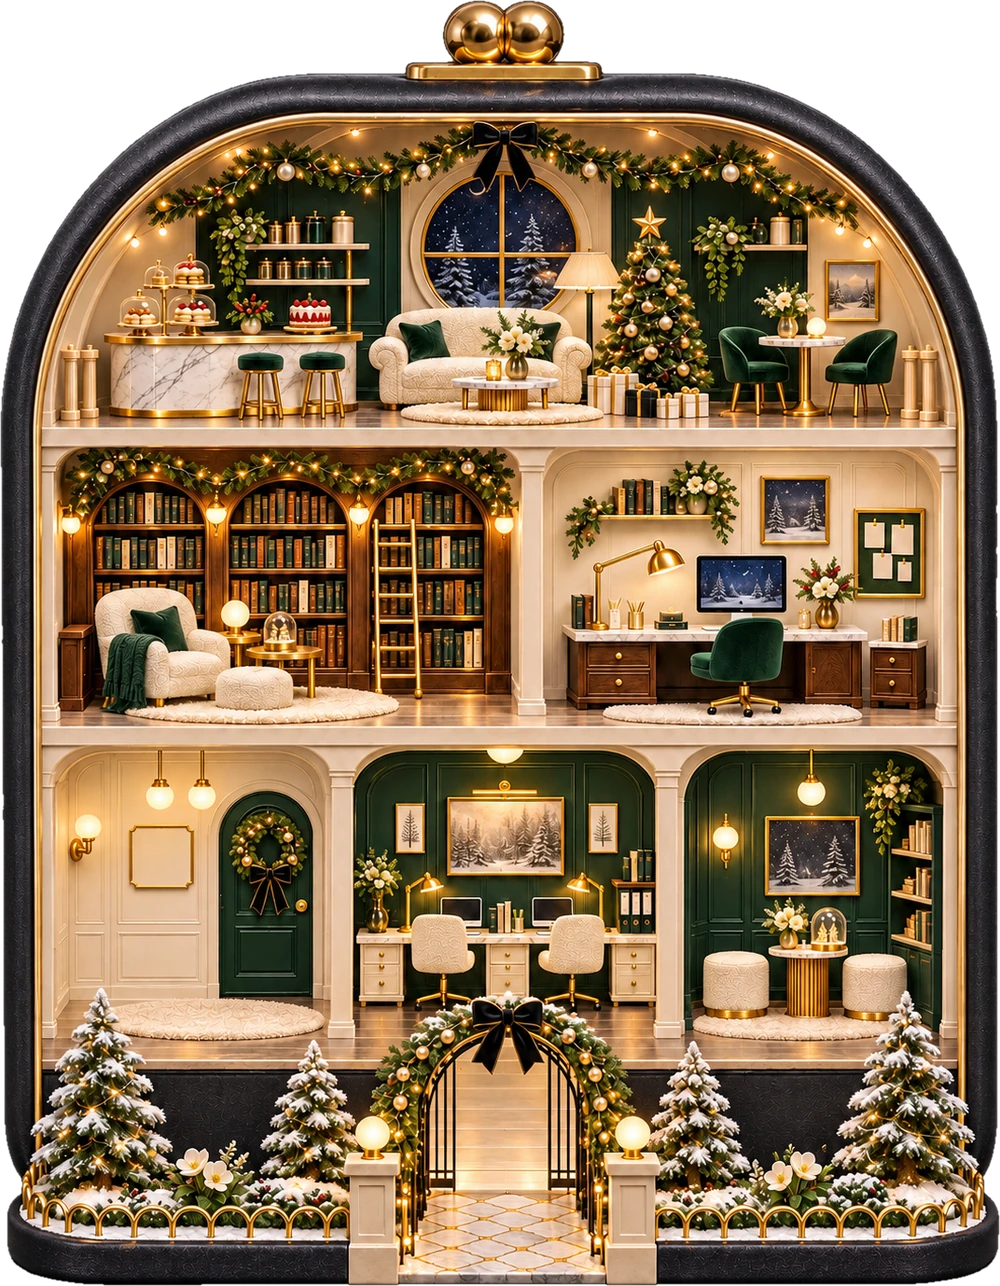
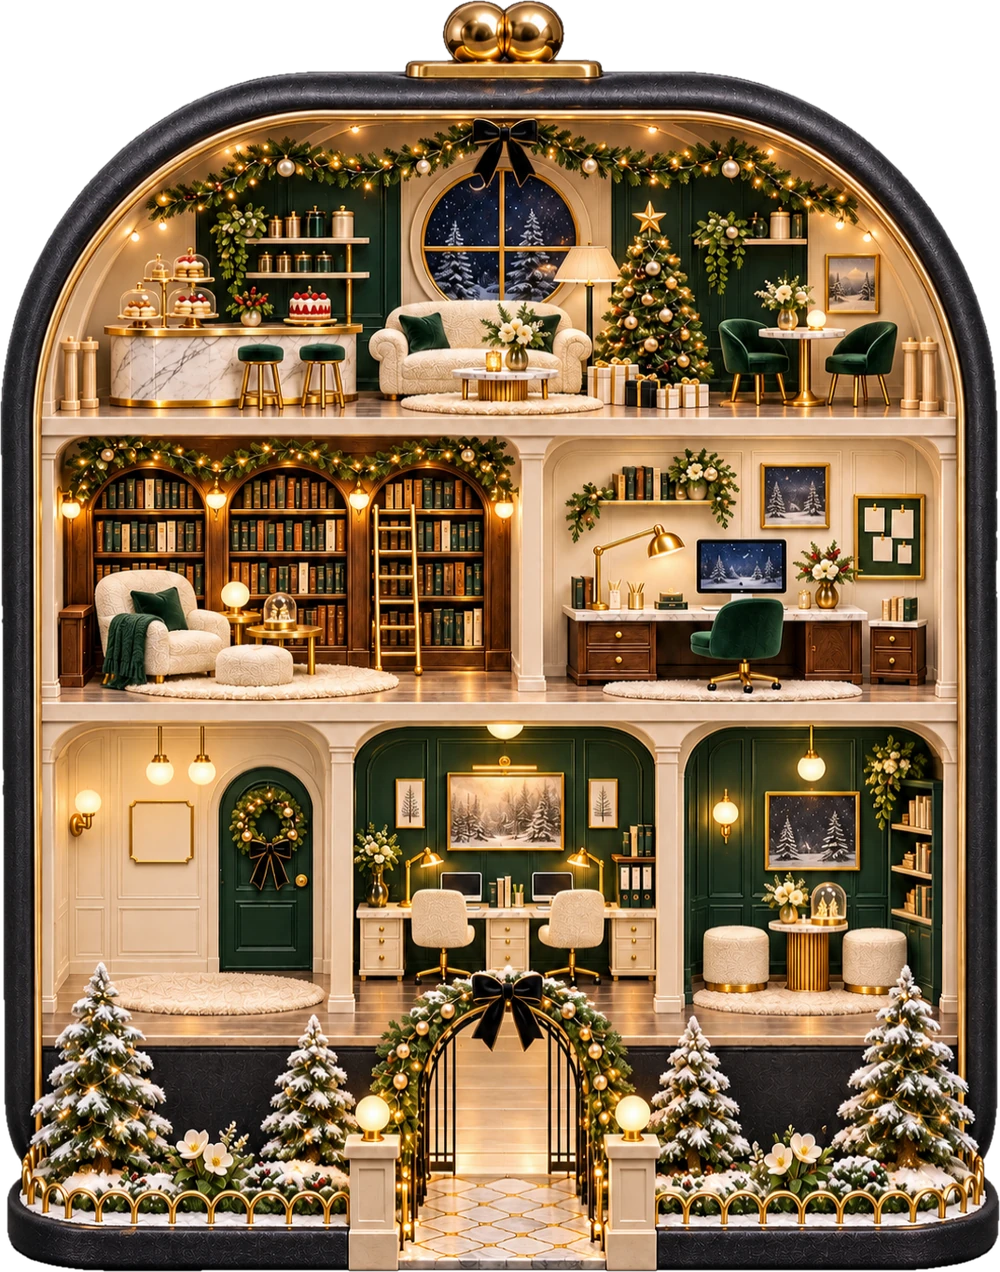
다크 하우스 그림을 층 바닥 높이 기준으로 라이트와 똑같이 정렬(세로 보정으로 바닥 맞춤, 크기 1000x1272 동일), 다크 전용 아바타·카운터 보정 제거
Claude-Session: https://claude.ai/code/session_011wWXPaiuu8PZPFdYFKdKKY

diff --git a/src/rooms.ts b/src/rooms.ts
@@ -31,12 +31,12 @@ export function roomOf(p: { x: number; y: number }): RoomId | null {
 export const COUNTER = { x: 70, w: 230, bottom: 992, bodyCenterX: 207 }
 
 /** 다크 하우스에서 카운터·나를 바닥 쪽으로 내리는 거리(하우스 좌표) */
-export const COUNTER_DARK_DROP = 26
+export const COUNTER_DARK_DROP = 0 // 다크 하우스 그림의 바닥을 라이트와 맞춰서 더 내릴 필요가 없어요
 
 /** 층 바닥의 앞쪽 가장자리가 아바타 서는 선보다 아래에 있어서, 발이 바닥에 닿도록 층마다 내려요 (y: 층 높이 → 내릴 거리) */
 const DROPS: Record<'light' | 'dark', [number, number][]> = {
   light: [[408, 8], [690, 14], [1002, 14], [1212, 8]],
-  dark: [[408, 10], [690, 24], [1002, 26], [1212, 14]], // 다크 하우스는 바닥이 더 아래에 있어요
+  dark: [[408, 8], [690, 14], [1002, 14], [1212, 8]], // 다크 그림의 바닥 높이를 라이트와 똑같이 맞춰 놓아서(tools/process_assets.py) 같은 값이에요
 }
 export function floorDrop(y: number, dark: boolean): number {
   const pts = DROPS[dark ? 'dark' : 'light']

diff --git a/src/assets.gen.ts b/src/assets.gen.ts
@@ -204,7 +204,7 @@ export const ASSET_META = {
  },
  "houseDark": {
   "w": 1000,
-  "h": 1286
+  "h": 1272
  },
  "boxDark": {
   "w": 720,

diff --git a/tools/process_assets.py b/tools/process_assets.py
@@ -133,6 +133,25 @@ def crop_rgba(rgba, boxes, pad=4):
     return rgba.crop((x0, y0, x1, y1))
 
 
+# 다크 하우스는 층 바닥이 라이트보다 아래에 있어요. 바닥 높이(라이트 기준 y)마다 얼마나 올려야 라이트와 같아지는지
+DARK_FLOOR_SHIFT = [(0, 0), (408, 10), (690, 24), (1002, 26), (1212, 14)]
+
+
+def align_floors(img, shifts, out_h):
+    """그림을 세로로 부드럽게 늘이고 줄여서, 층 바닥이 shifts가 말하는 만큼 위로 올라가게 해요.
+    출력 y 줄은 입력 y + shift(y) 줄에서 가져와요 (사이는 직선으로 이어서 층 사이가 울퉁불퉁하지 않게)."""
+    a = np.asarray(img.convert('RGBA')).astype(np.float32)
+    ys = np.array([p[0] for p in shifts], dtype=np.float32)
+    sh = np.array([p[1] for p in shifts], dtype=np.float32)
+    out = np.zeros((out_h, a.shape[1], 4), dtype=np.float32)
+    for y in range(out_h):
+        src = y + float(np.interp(y, ys, sh))
+        src = min(max(src, 0), a.shape[0] - 1)
+        i0 = int(np.floor(src)); i1 = min(i0 + 1, a.shape[0] - 1); t = src - i0
+        out[y] = a[i0] * (1 - t) + a[i1] * t
+    return Image.fromarray(np.clip(out, 0, 255).astype(np.uint8), 'RGBA')
+
+
 def main(src):
     meta = {'avatars': {}}
     # 하우스와 방: 배경색 제거
@@ -188,6 +207,7 @@ def main(src):
     save(bgd, f'{OUT}/bg-dark.webp', 82)
     _, hd = load_alpha(src, 'housedark')
     hd = trim(hd); hd = hd.resize((1000, round(hd.height * 1000 / hd.width)), Image.LANCZOS)
+    hd = align_floors(hd, DARK_FLOOR_SHIFT, 1272)  # 층 바닥 높이를 라이트 하우스와 똑같이 맞춰요
     save(hd, f'{OUT}/house-dark.webp', 90)
     meta['houseDark'] = {'w': hd.width, 'h': hd.height}
     _, bd = load_alpha(src, 'boxdark')
